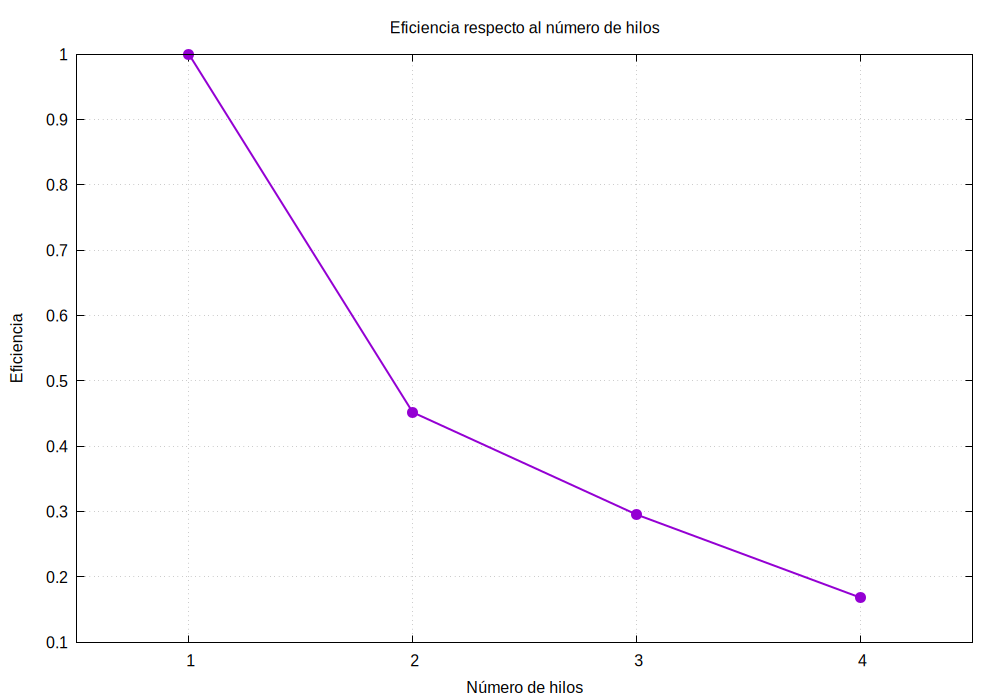
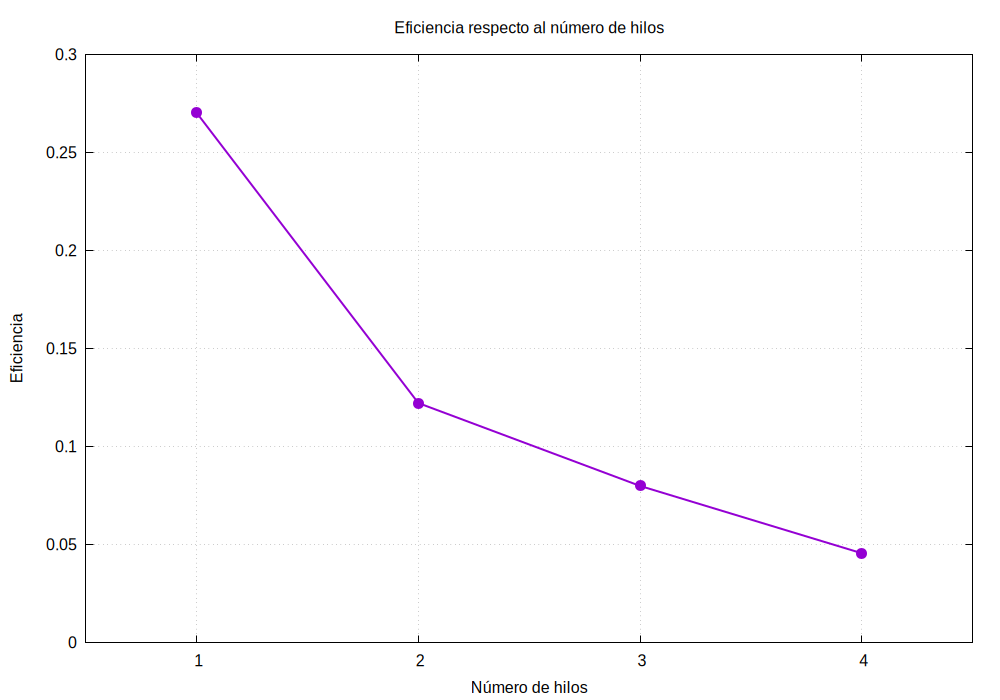
doc: Se agrega documentación del ejercicio b de los ejercicios de semana3

diff --git a/Week4/README.md b/Week4/README.md
@@ -7,10 +7,10 @@ Por lo tanto se modifica el código para poder ejecutarlo.
 
 Se modifica la constante `NUM_THREADS` por 4 en lugar de 8.
 
-### Tabla de tiempos de ejecución según el número de hilos utilizados
+### Tabla de tiempos de ejecución| speedup y eficiencia
 
 | Hilos | Tiempo (s) | Speedup | Eficiencia |
-| :---: | ---------: | ------: | ---------: |
+| :---: | :---------: | :------: | :---------: |
 |   1   |      4.273 |   1.000 |      1.000 |
 |   2   |      4.728 |   0.904 |      0.452 |
 |   3   |      4.822 |   0.886 |      0.295 |
@@ -42,10 +42,57 @@ $p = 1 -s = 0.65$
 
 De los resultados obtenidos y contrario a lo esperado por la ley de Amdahl se puede observar que este programa no demuestra una mejora al aumentar la cantidad de hilos que se utilizan para ejecutarlo. Es decir que experimenta una desaceleración al aumentar la paralelización.
 
-Se identifica también el problema de que la proporción serial `s` es mayor a 1, lo que demuestra la invalidez de la ley de Amdahl para este caso. Ya que una parte del tiempo de ejecución no se utiliza ni en su porción serial ni paralela, sino que este tiempo (overhead) se utiliza para otras cosas, que puede incluir el manejo y creación de los hilos.
+Se identifica también el problema de que la proporción serial `s` es mayor a 1| lo que demuestra la invalidez de la ley de Amdahl para este caso. Ya que una parte del tiempo de ejecución no se utiliza ni en su porción serial ni paralela| sino que este tiempo (overhead) se utiliza para otras cosas| que puede incluir el manejo y creación de los hilos.
 
  
 ## Ejercicio B
+
+### Tabla de tiempos de ejecución speedup y eficiencia
+
+|Hilos|Tiempo matmul (s)|Speedup matmul|Eficiencia matmul|Tiempo softmax (s)|Speedup softmax|Eficiencia softmax|
+| :---: | :---------: | :------: | :---------: |:------: |:------: |:------: |
+1|1.153782|1.000|1.000|1.175397|1.000|1.000|
+2|0.634376|1.819|0.909|0.949586|1.238|0.619|
+3|0.572408|2.016|0.672|0.866913|1.356|0.452|
+4|0.468902|2.461|0.615|0.906796|1.296|0.324|
+
+
+### Gráfico de tiempos según el número de hilos
+
+![Tiempo de ejecución respecto al número de hilos](img/execution_timeb.png)
+
+### Gráfico de speedup según el número de hilos
+
+![Speedup respecto al número de hilos](img/speedupb.png)
+
+### Gráfico de eficiencia según el número de hilos
+
+![Eficiencia respecto al número de hilos](img/efficiencyb.png)
+
+### Parte paralelizable y serial
+
+$s = \frac{\frac{N}{S(N)} - 1}{N - 1}$
+
+$s_{matmul} = 0.208$
+$p_{matmul}  = 1 - s = 0.792$
+
+$s_{softmax} = 0.695$
+$p_{softmax}  = 1 -s = 0.305$
+
+### Análisis
+
+### Análisis
+
+Ambos programas presentan un comportamiento diferenciado según la naturaleza de sus operaciones:
+
+1. **`matmul_tiled_openmp`:** Muestra un rendimiento positivo con la paralelización. El tiempo de ejecución se reduce de $1.153\text{ s}$ a $0.468\text{ s}$ ($S_4 = 2.461$). La fracción serial calculada es del **20.8%** ($s = 0.208$), lo que explica que cerca del **79.2%** del código sea efectivamente paralelizable gracias al uso de bloques (*tiling*).
+
+2. **`softmax_openmp`:** Muestra una alta porción serial estimada del **69.5%** ($s = 0.695$), lo que limita severamente el escalado. Aunque experimenta una aceleración máxima con 3 hilos ($S_3 = 1.356$), al utilizar 4 hilos el tiempo se incrementa a $0.906\text{ s}$ ($S_4 = 1.296$).
+
+3. **Caída de la Eficiencia:** En ambos casos, la eficiencia decrece progresivamente a medida que aumentan los hilos. Esto confirma la presencia de *rendimientos decrecientes* causados por la fracción serial no paralelizable, sumado al *overhead* de sincronización y a la contención en el bus de memoria al escalar el número de hilos.
+
+
+
 ---
 
 # Práctica de Clase 4
@@ -57,7 +104,7 @@ Se identifica también el problema de que la proporción serial `s` es mayor a 1
 
 | # | Property | Value |
 |---|---|---|
-| 1 | Processor model | AMD A12-9800 RADEON R7, 12 COMPUTE CORES 4C+8G |
+| 1 | Processor model | AMD A12-9800 RADEON R7| 12 COMPUTE CORES 4C+8G |
 | 2 | Architecture | x86_64 |
 | 3 | Vector instruction sets | AVX2 |  
 | 4 | CPU cores | 4 |
@@ -96,4 +143,6 @@ Dr. Luis G. León-Vega
 
 La documentación de este laboratorio se realizó con apoyo de inteligencia artificial.
 
-[]()
+[gemini](https://share.gemini.google/RzfgzXu8Clmv)
+
+[chatgpt](https://chatgpt.com/share/6a963265-7f48-83e8-879e-9e97228bcfa1)
